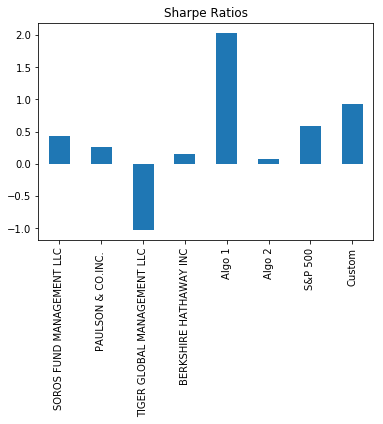
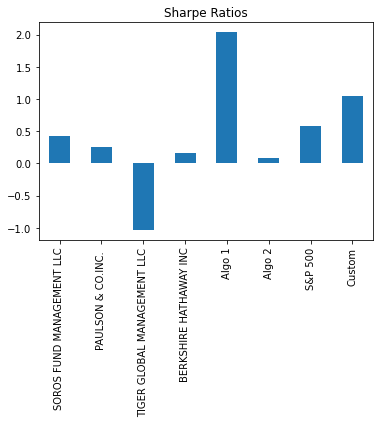
Completed the Whale Findings markdown, thereby completing the assignment

diff --git a/Homework/04-Pandas/Whale_Findings.md b/Homework/04-Pandas/Whale_Findings.md
@@ -19,7 +19,7 @@ From the plot of the cumulative returns, it appears that there are only two port
 
 Moving onto the box plots, we are able to discern the spread of the returns for the various portfolios. We see that Tiger Global had the largest spread by far and that Paulson & Co, Inc was the smallest spread, followed closely by Algo 2. However, it is important to note that the Berkshire Hathaway's spread within one standard deviation of its mean was the largest (as shown by the largest "box"), indicating that their stocks overall likely had a larger spread -- compared to Tiger Global which had large spreads among the outliers, but tighter spread within one standard deviation of its mean.
 
-### Standard Deviations
+### Annualized Standard Deviations
 
 |Portfolio                  |Annualized Standard Deviation|
 |---                        |-----|
@@ -33,7 +33,7 @@ Moving onto the box plots, we are able to discern the spread of the returns for 
 
 When comparing standard deviations for each portfolio, we see that both Tiger Global and Berkshire Hathaway's portfolios come in as riskier than the S&P 500 -- this is likely due to the factors mentioned above -- a larger overall spread in Berkshire Hathaway's portfolio and high ranges between outliers for Tiger Global's portfolio.
 
-### Rollings Standard Deviation
+### Rolling Standard Deviation
 
 ![Rolling Standard Deviation](Images/21_Day_Rolling_SDev.png)
 
@@ -91,4 +91,50 @@ When comparing the cumulative returns against the rest of the portfolios, it far
 
 ## Risk
 
-In
+### Annualized Standard Deviation
+
+In terms of risk, the custom portfolio tended on the higher side. For annualized standard deviation, it ranked the highest in terms of risk, as highlighted in the below table.
+
+|Portfolio                  |Annualized Standard Deviation|
+|---                        |-----|
+|Soros Fund Management LLC  |0.147|
+|Paulson & Co., Inc.        |0.117|
+|Tiger Global Management LLC|0.233|
+|Berkshire Hathaway, Inc.   |0.247|
+|Algo 1                     |0.134|
+|Algo 2                     |0.140|
+|S&P 500                    |0.152|
+|**Custom**                     |**0.297**|
+
+### Rolling Standard Deviation
+
+When comparing the standard deviation through a 21 day window, it can also be seen that the custom portfolio tended to have higher volatility than the other portfolios.
+
+![Custom Rolling Standard Deviation](Images/21_Day_Rolling_SDev_Custom.png)
+
+### Custom Beta Comparison
+
+Finally, when calculating the beta value of the custom portfolio, it can clearly be seen that it was riskier than the market for nearly the whole period. 
+
+![Custom Beta](Images/Beta_Custom.png)
+
+### Sharpe Ratios
+
+|Portfolio                  |Annualized Sharpe Ratios|
+|---                        |-----|
+|Soros Fund Management LLC  | 0.431|
+|Paulson & Co., Inc.        | 0.259|
+|Tiger Global Management LLC|-1.034|
+|Berkshire Hathaway, Inc.   | 0.160|
+|Algo 1                     | 2.036|
+|Algo 2                     | 0.081|
+|S&P 500                    | 0.584|
+|Custom                     | 1.049|
+
+![Custom Sharpe Ratios](Images/Annualized_Sharpes_Custom.png)
+
+From the Sharpe Ratio analysis, it seems that the custom portfolio trails only Algo 1 in terms of risk to return trade-off, outperforming the S&P 500 by a slim margin and the rest of the portfolios by a substantial amount.
+
+### Risk Conclusions
+
+From this analysis, it does seem that the custom portfolio is riskier than the other portfolios and the market. However, it should be taken into consideration that the custom portfolio consisted of only 3 stocks while the other portfolios and the market consist of many more, diversifying their holding and reducing the volatility of their portfolios. As more stocks are added to the custom portfolio, it can be expected that the volatility decreases as well.
